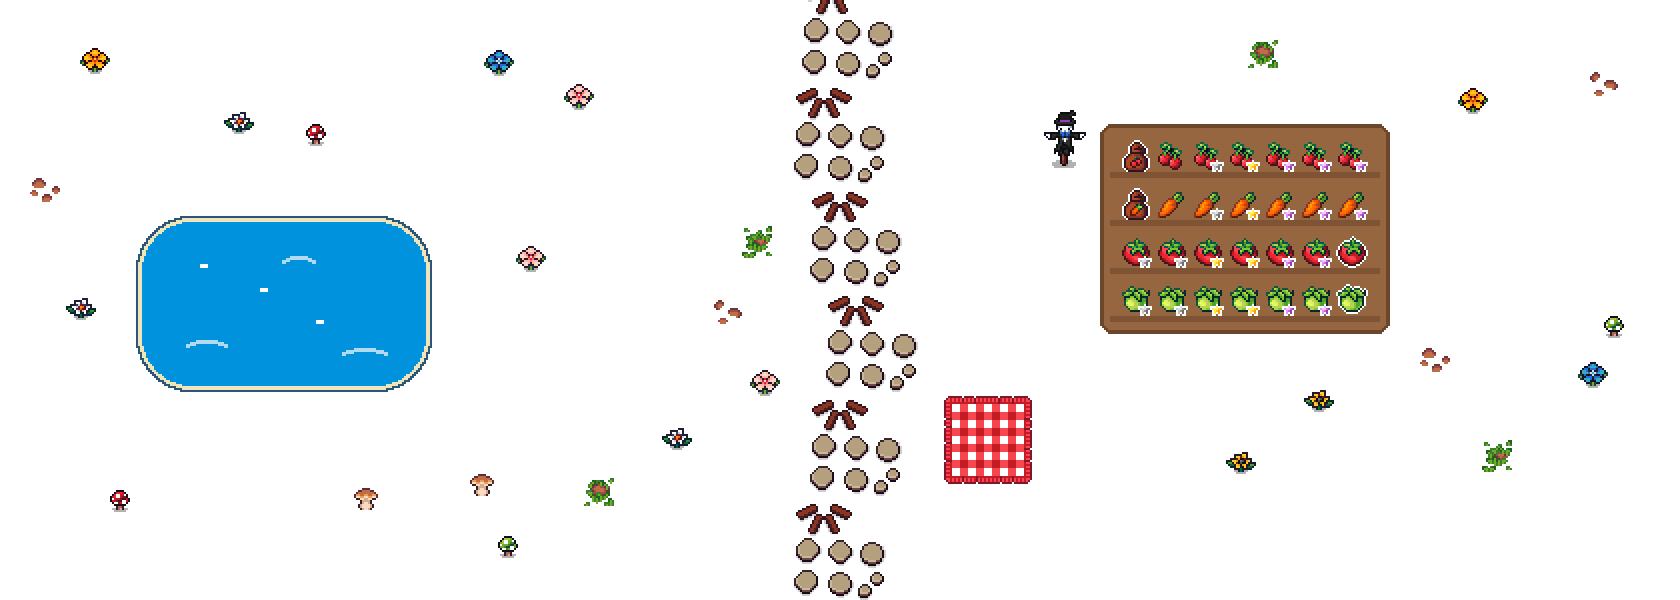
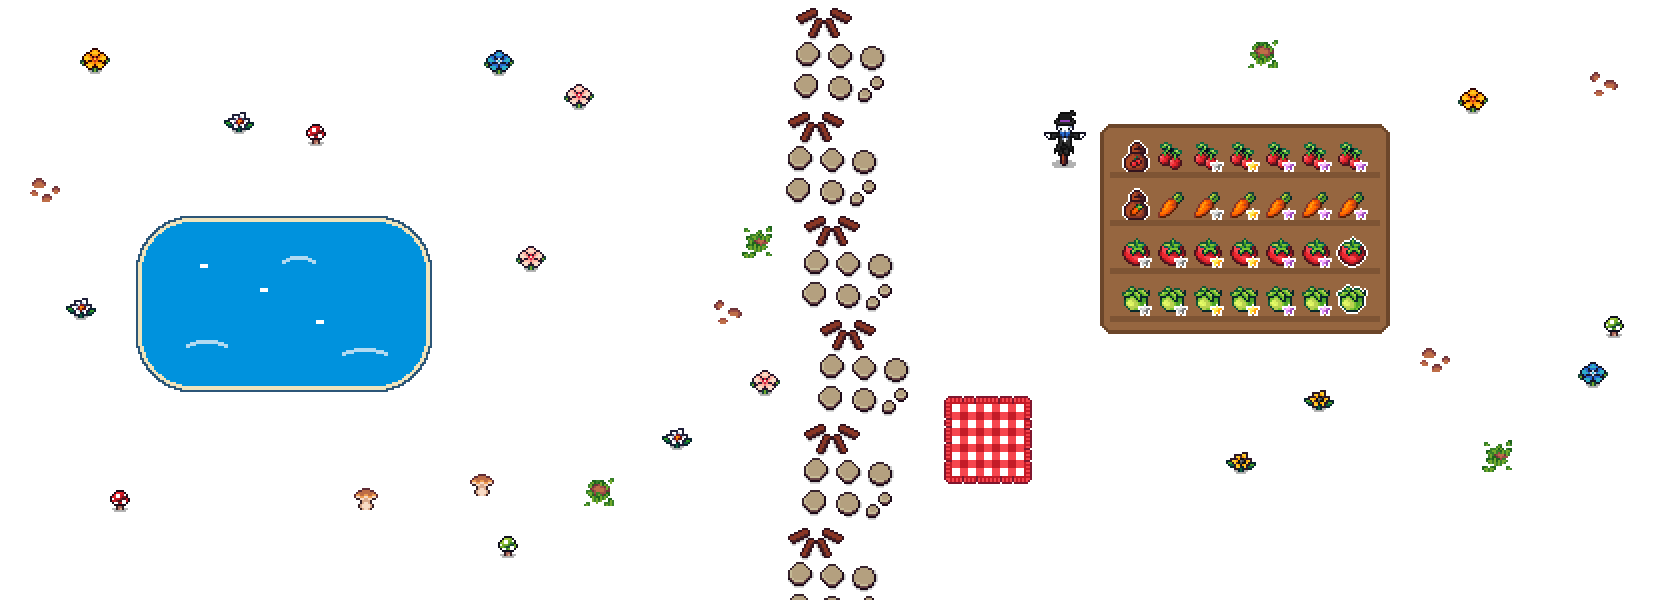
Close the gap in the stepping-stone path at the hero-meadow seam
The two path segments had mismatched rhythm at the boundary: the
hero strip's last stone was clipped and the meadow strip started
half-cut, leaving a visible break. Both images are regenerated on a
shared 52px cadence - the hero segment ends flush with its bottom
edge and the meadow segment starts one in-path gap below the top,
with both stone columns centered on the page midline.

Changed region(s): [[0.4643, 0.0, 0.5571, 1.0]]

diff --git a/source/css/site-polish.css b/source/css/site-polish.css
@@ -2685,7 +2685,7 @@ html[data-user-color-scheme="dark"] body:has(.home-showcase) .home-layout > .tok
   bottom: 0;
   left: 50%;
   width: 192px;
-  height: 300px;
+  height: 312px;
   margin-left: -96px;
   background: url("/img/village/path-hero.png") no-repeat center bottom;
 }
